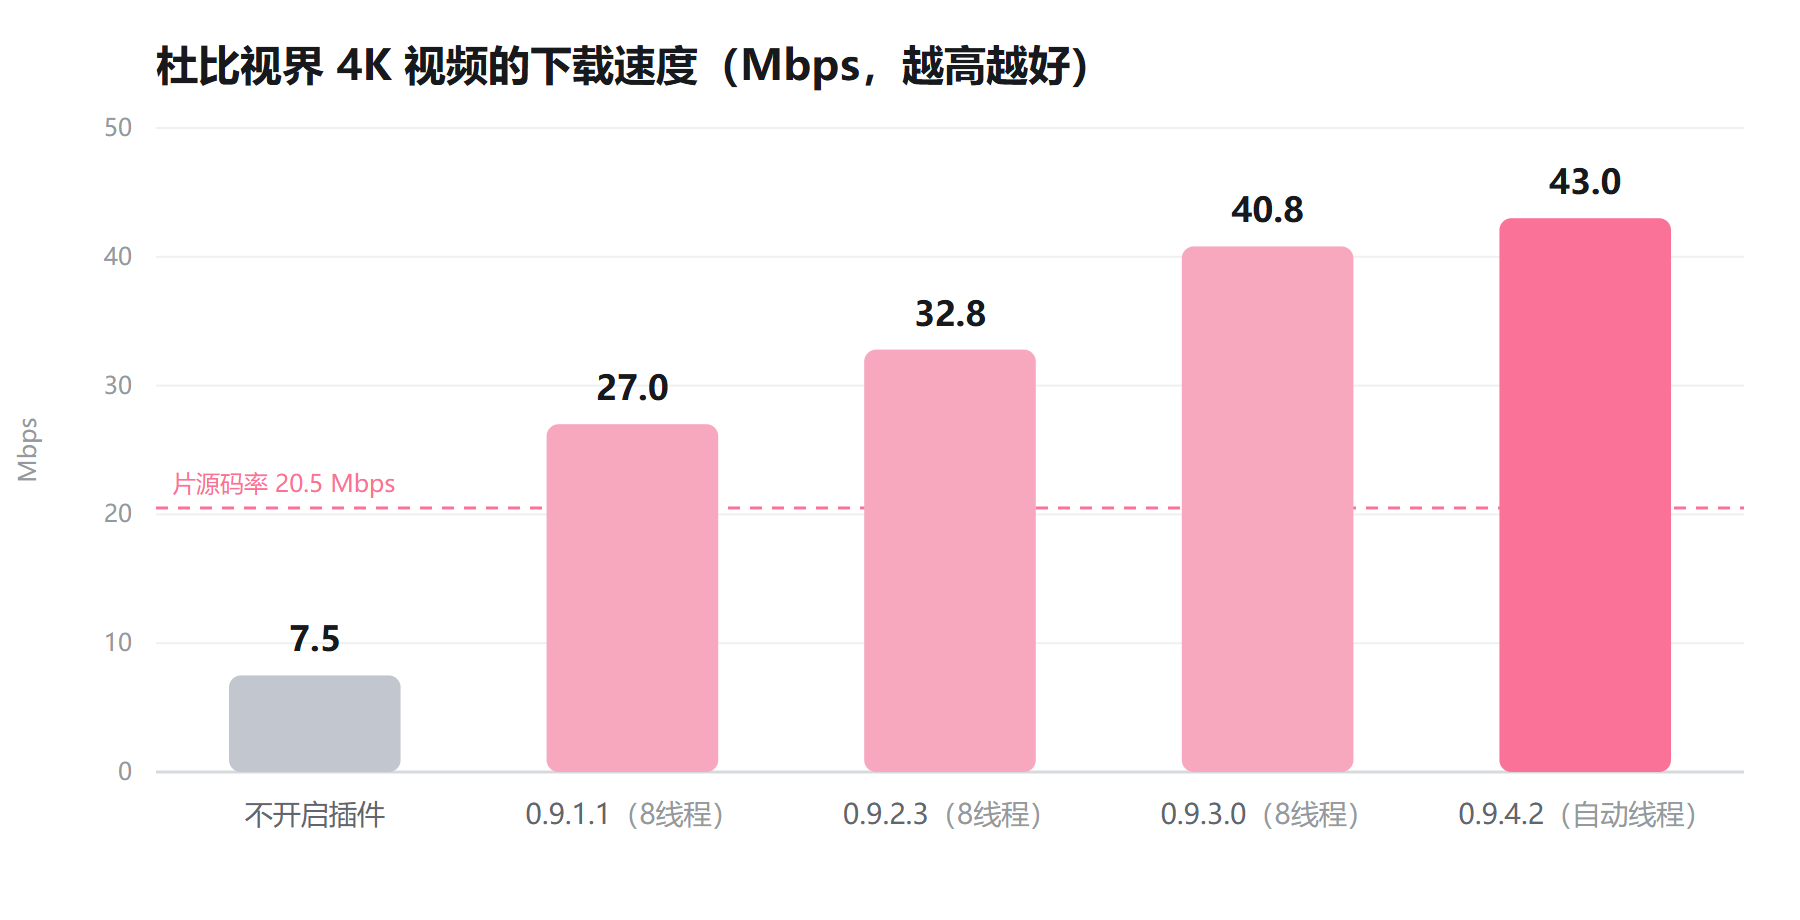
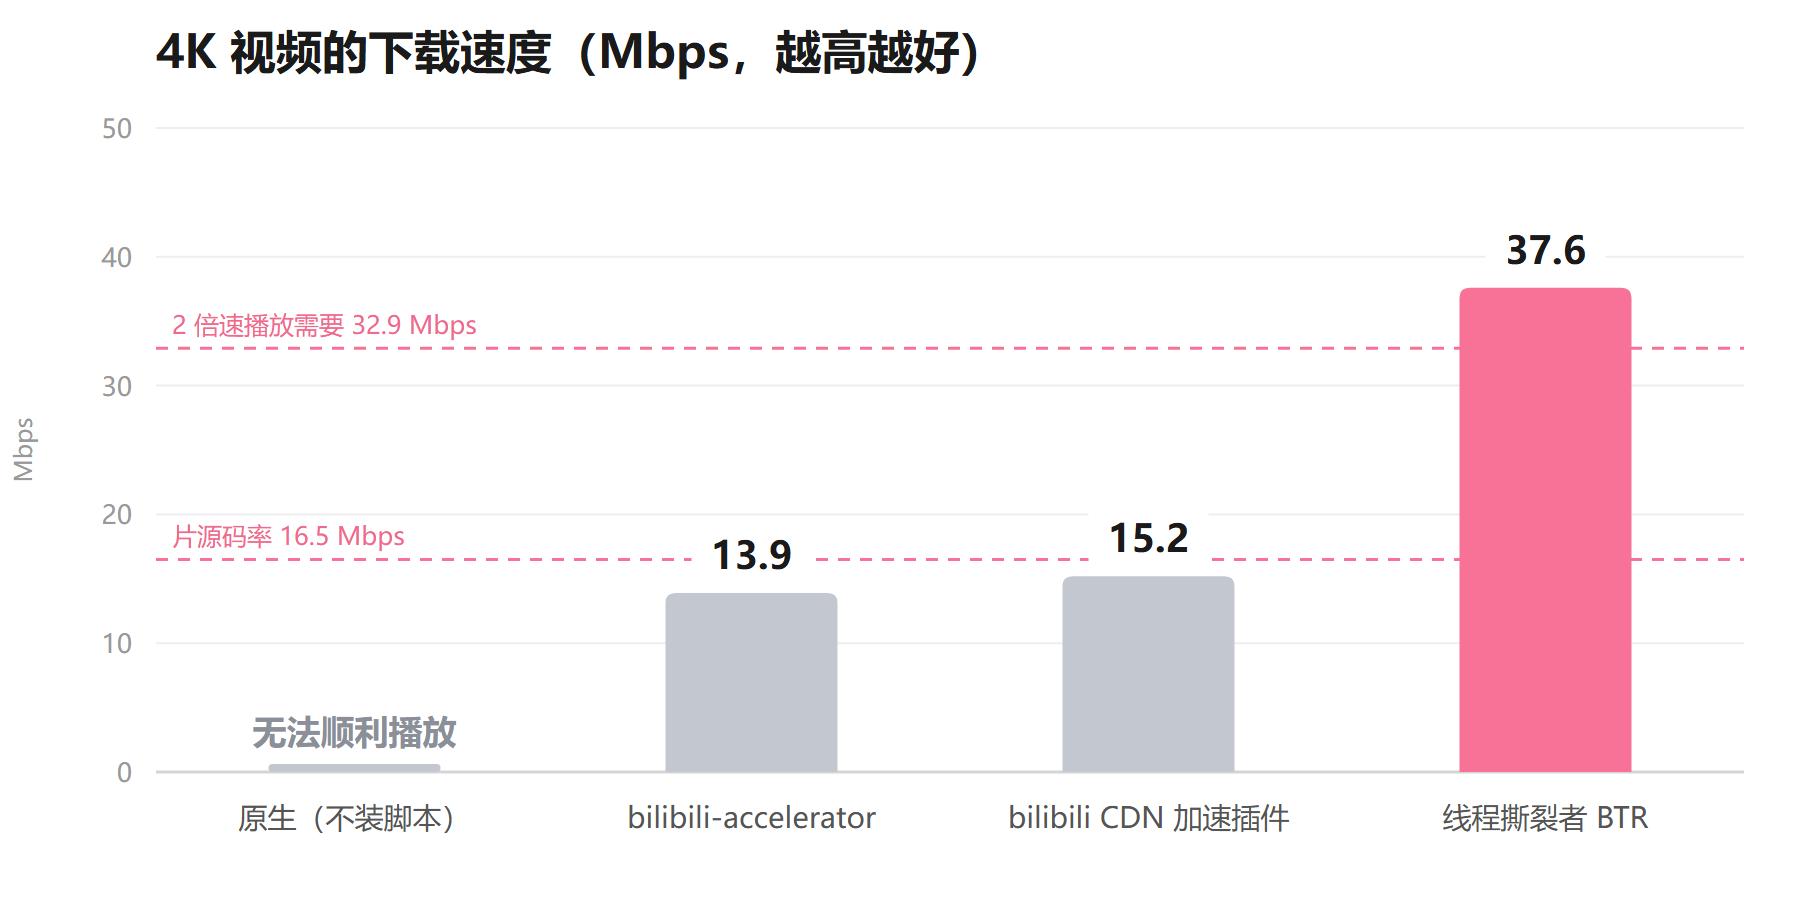
readme修改

diff --git a/README.md b/README.md
@@ -39,12 +39,12 @@
 - **直播加速**：实验性，默认关闭
 - **不上传任何数据**：没有遥测
 
-### 速度对比
+### 速度对比：原生、[bilibili-accelerator](https://github.com/realzza/bilibili-accelerator) 以及 bilibili CDN 加速插件
 
 <div align="center">
-<img src="pics/speed-comparison.png" alt="不同版本的下载速度对比" width="760">
+<img src="pics/speed-comparison.png" alt="对比原生以及其他优化插件的下载速度" width="760">
 </div>
-<sub>墨尔本，运营商 Superloop 实测。测试视频是一个仅自己可见、几乎无播放的杜比视界 4K60 视频（BV1Aou3zjEh1），5 次测试取平均，仅供参考。</sub>
+<sub>对比原生以及其他优化插件，墨尔本，运营商 Superloop 实测。测试视频是一个仅自己可见、几乎无播放的 4K60 视频（BV1Aou3zjEh1），3 次测试取平均，线程撕裂者版本 2026.10.8.1，仅供参考。</sub>
 
 ## 📦 安装
 
